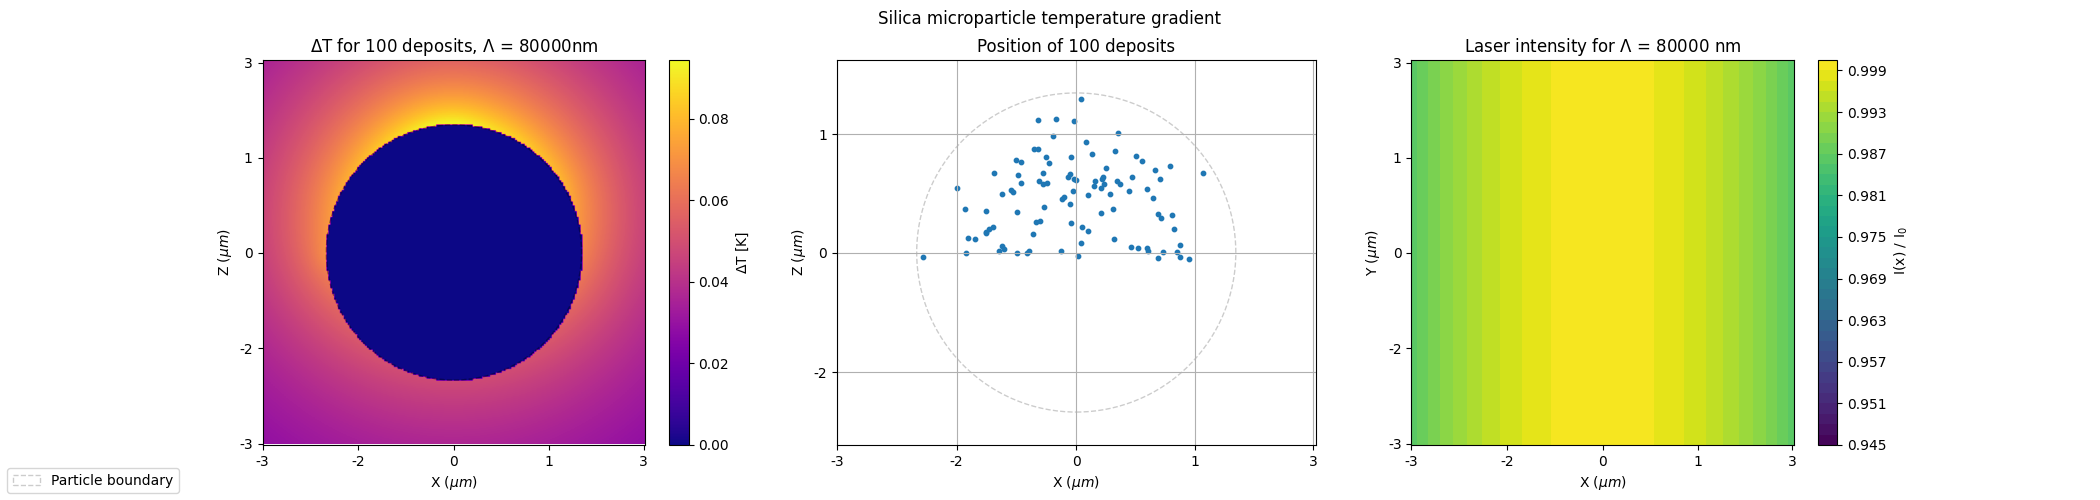
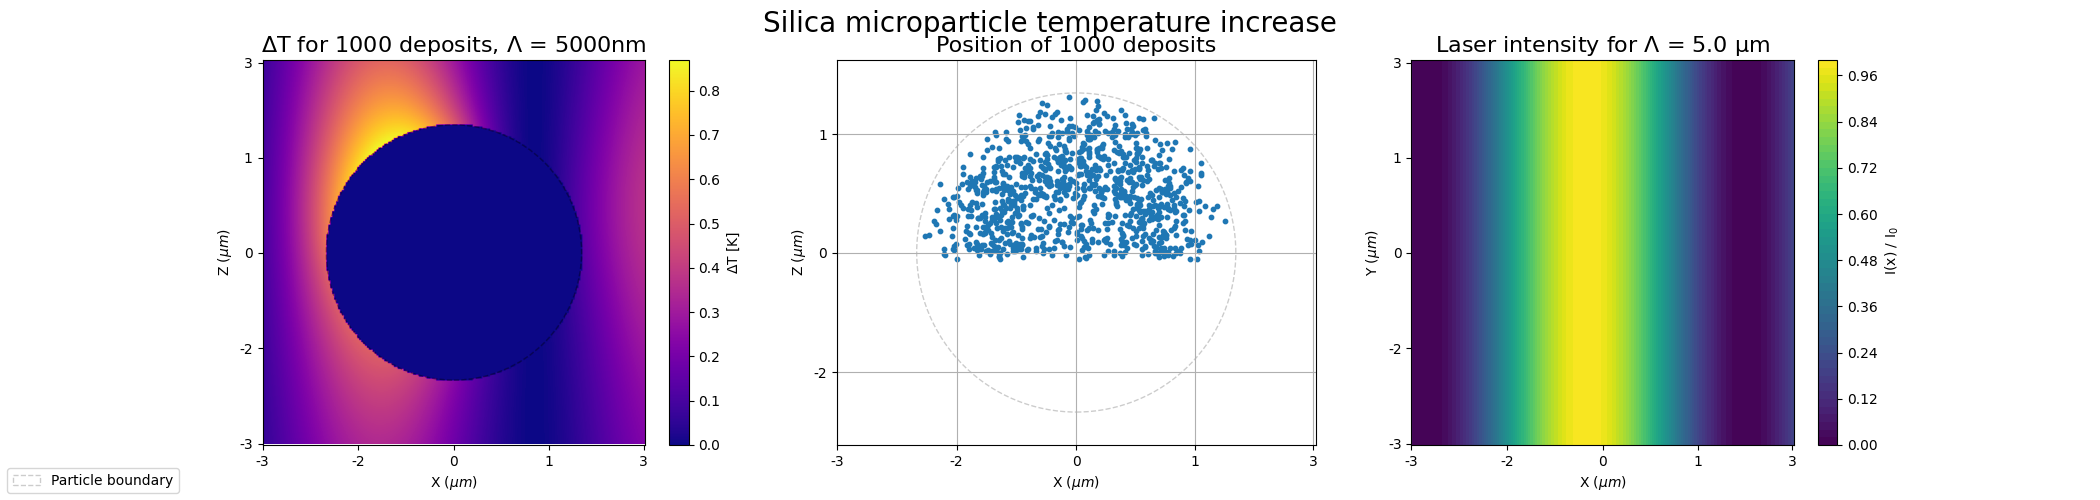
get abs

diff --git a/janus-gradient/plotGradient.py b/janus-gradient/plotGradient.py
@@ -18,6 +18,8 @@ circle2.set(fill=False,linestyle='--',alpha=0.2)
 imageBounds 	   = float(sys.argv[4])*1e-6
 spatialPeriodicity = float(sys.argv[5])*1e-9
 
+periodicity = float(sys.argv[5])/1000
+
 def dfToNumpy(column):
     return column.to_numpy()
 
@@ -60,14 +62,14 @@ def generateLaserProfile(spatialPeriodicity): #Generates gaussian laser profile
 	
 def generateFigure(imageBounds):
 	fig, ax = plt.subplots(1, 3, figsize=(21, 5))
-	axisTitles = [f"gradient of $\Delta$T for {nDeposits} deposits, $\Lambda$ = {sys.argv[5]}nm",f"Position of {nDeposits} deposits",f"Laser intensity for $\Lambda$ = {sys.argv[5]} nm"] 
+	axisTitles = [f"∇T for {nDeposits} deposits",f"Position of {nDeposits} deposits",f"Laser intensity for $\Lambda$ = {periodicity} μm"] 
 	axisLabelsX = ['X ($\mu m$)','X ($\mu m$)','X ($\mu m$)']
 	axisLabelsY = ['Z ($\mu m$)','Z ($\mu m$)','Y ($\mu m$)']
 	circles	    = [circle1,circle2]
 	
 	index = 0
 	for axis in ax:
-		axis.set_title(axisTitles[index])
+		axis.set_title(axisTitles[index],fontsize=16)
 		axis.axis('equal')
 		axis.set_xlim(-imageBounds,imageBounds)
 		axis.set_ylim(-imageBounds,imageBounds)
@@ -85,7 +87,7 @@ def generateFigure(imageBounds):
 			im = ax[0].imshow(H.T, origin='lower',  cmap='plasma',
            			 extent=[xedges[0], xedges[-1], yedges[0], yedges[-1]])
 			cbar = plt.colorbar(im,ax=ax[0])
-			cbar.set_label(f"$\Delta$T [K]")
+			cbar.set_label(f"∇T [K]")
 			axis.add_patch(circles[index])
 			
 		if index == 1:
@@ -103,7 +105,7 @@ def generateFigure(imageBounds):
 
 	#Labels & Legend	
 	fig.legend([ "Particle boundary"],loc='lower left')
-	fig.suptitle(f"Silica microparticle temperature gradient")
+	fig.suptitle(f"Silica microparticle temperature gradient",fontsize=20)
 
 	
 	#Colorbar & imshow

diff --git a/janus-gradient/main.py b/janus-gradient/main.py
@@ -17,7 +17,7 @@ circle2.set(fill=False,linestyle='--',alpha=0.2)
 
 imageBounds 	   = float(sys.argv[4])*1e-6
 spatialPeriodicity = float(sys.argv[5])*1e-9
-
+periodicity = float(sys.argv[5])/1000
 def dfToNumpy(column):
     return column.to_numpy()
 
@@ -55,19 +55,19 @@ def generateLaserProfile(spatialPeriodicity): #Generates gaussian laser profile
 	x   = np.linspace(-imageBounds*2,imageBounds*2, 200)
 	y   = np.linspace(-imageBounds*2,imageBounds*2, 200)
 	X,Y = np.meshgrid(x,y)	
-	Z = (1+ (np.cos(2*pi*X/spatialPeriodicity)))/2
+	Z = (1+ (np.cos(2*pi*X/spatialPeriodicity + pi/10)))/2
 	return X,Y,Z
 	
 def generateFigure(imageBounds):
 	fig, ax = plt.subplots(1, 3, figsize=(21, 5))
-	axisTitles = [f"$\Delta$T for {nDeposits} deposits, $\Lambda$ = {sys.argv[5]}nm",f"Position of {nDeposits} deposits",f"Laser intensity for $\Lambda$ = {sys.argv[5]} nm"] 
+	axisTitles = [f"$\Delta$T for {nDeposits} deposits, $\Lambda$ = {sys.argv[5]}nm",f"Position of {nDeposits} deposits",f"Laser intensity for $\Lambda$ = {periodicity} μm"] 
 	axisLabelsX = ['X ($\mu m$)','X ($\mu m$)','X ($\mu m$)']
 	axisLabelsY = ['Z ($\mu m$)','Z ($\mu m$)','Y ($\mu m$)']
 	circles	    = [circle1,circle2]
 	
 	index = 0
 	for axis in ax:
-		axis.set_title(axisTitles[index])
+		axis.set_title(axisTitles[index],fontsize=16)
 		axis.axis('equal')
 		axis.set_xlim(-imageBounds,imageBounds)
 		axis.set_ylim(-imageBounds,imageBounds)
@@ -103,7 +103,7 @@ def generateFigure(imageBounds):
 
 	#Labels & Legend	
 	fig.legend([ "Particle boundary"],loc='lower left')
-	fig.suptitle(f"Silica microparticle temperature gradient")
+	fig.suptitle(f"Silica microparticle temperature increase",fontsize=20)
 
 	
 	#Colorbar & imshow
